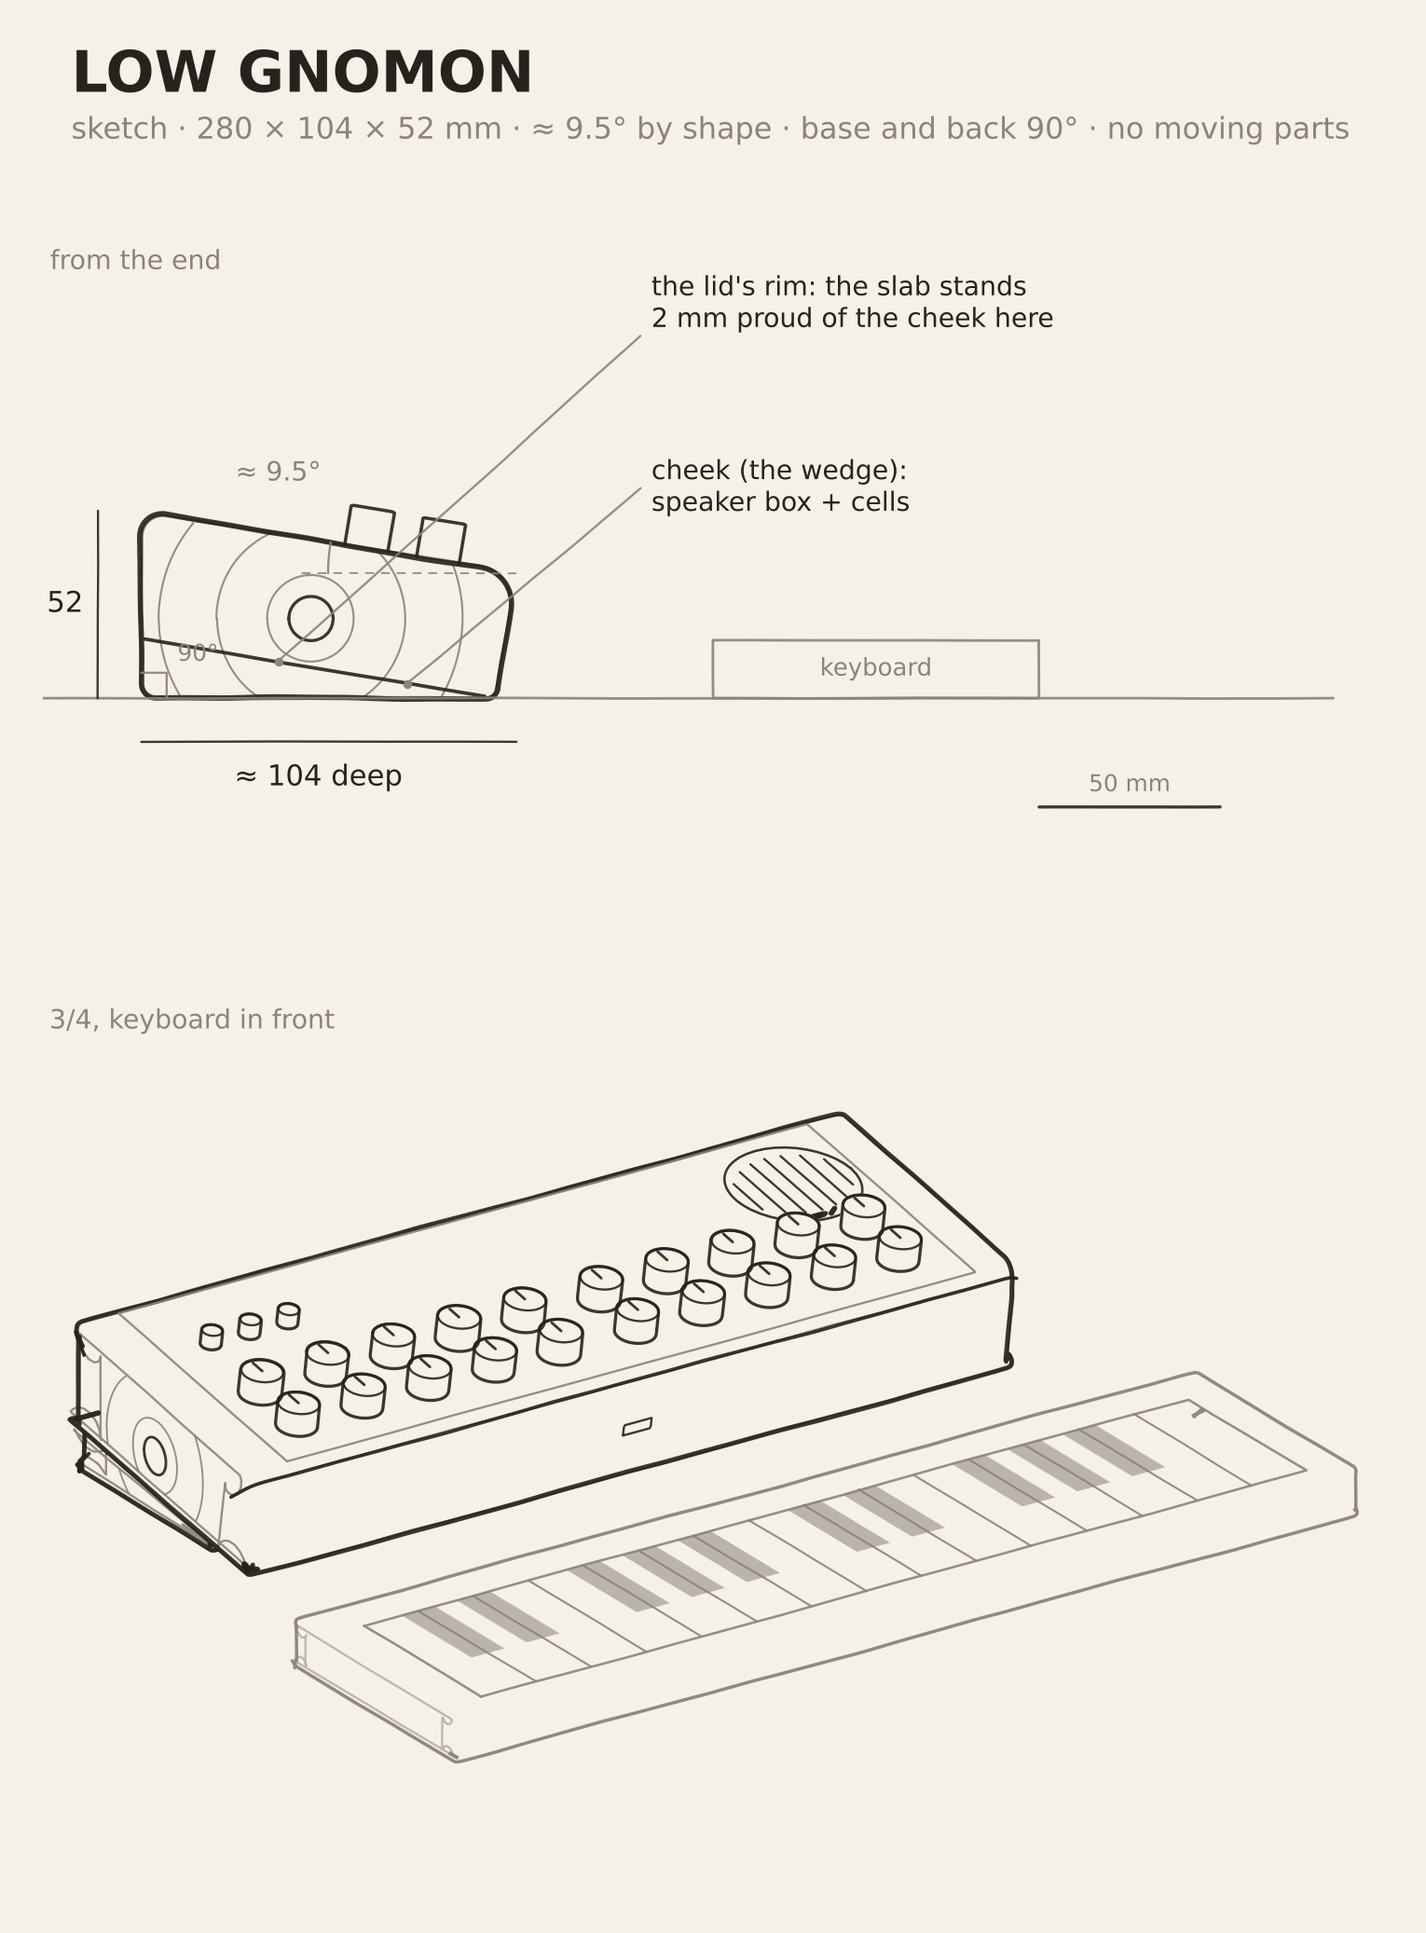
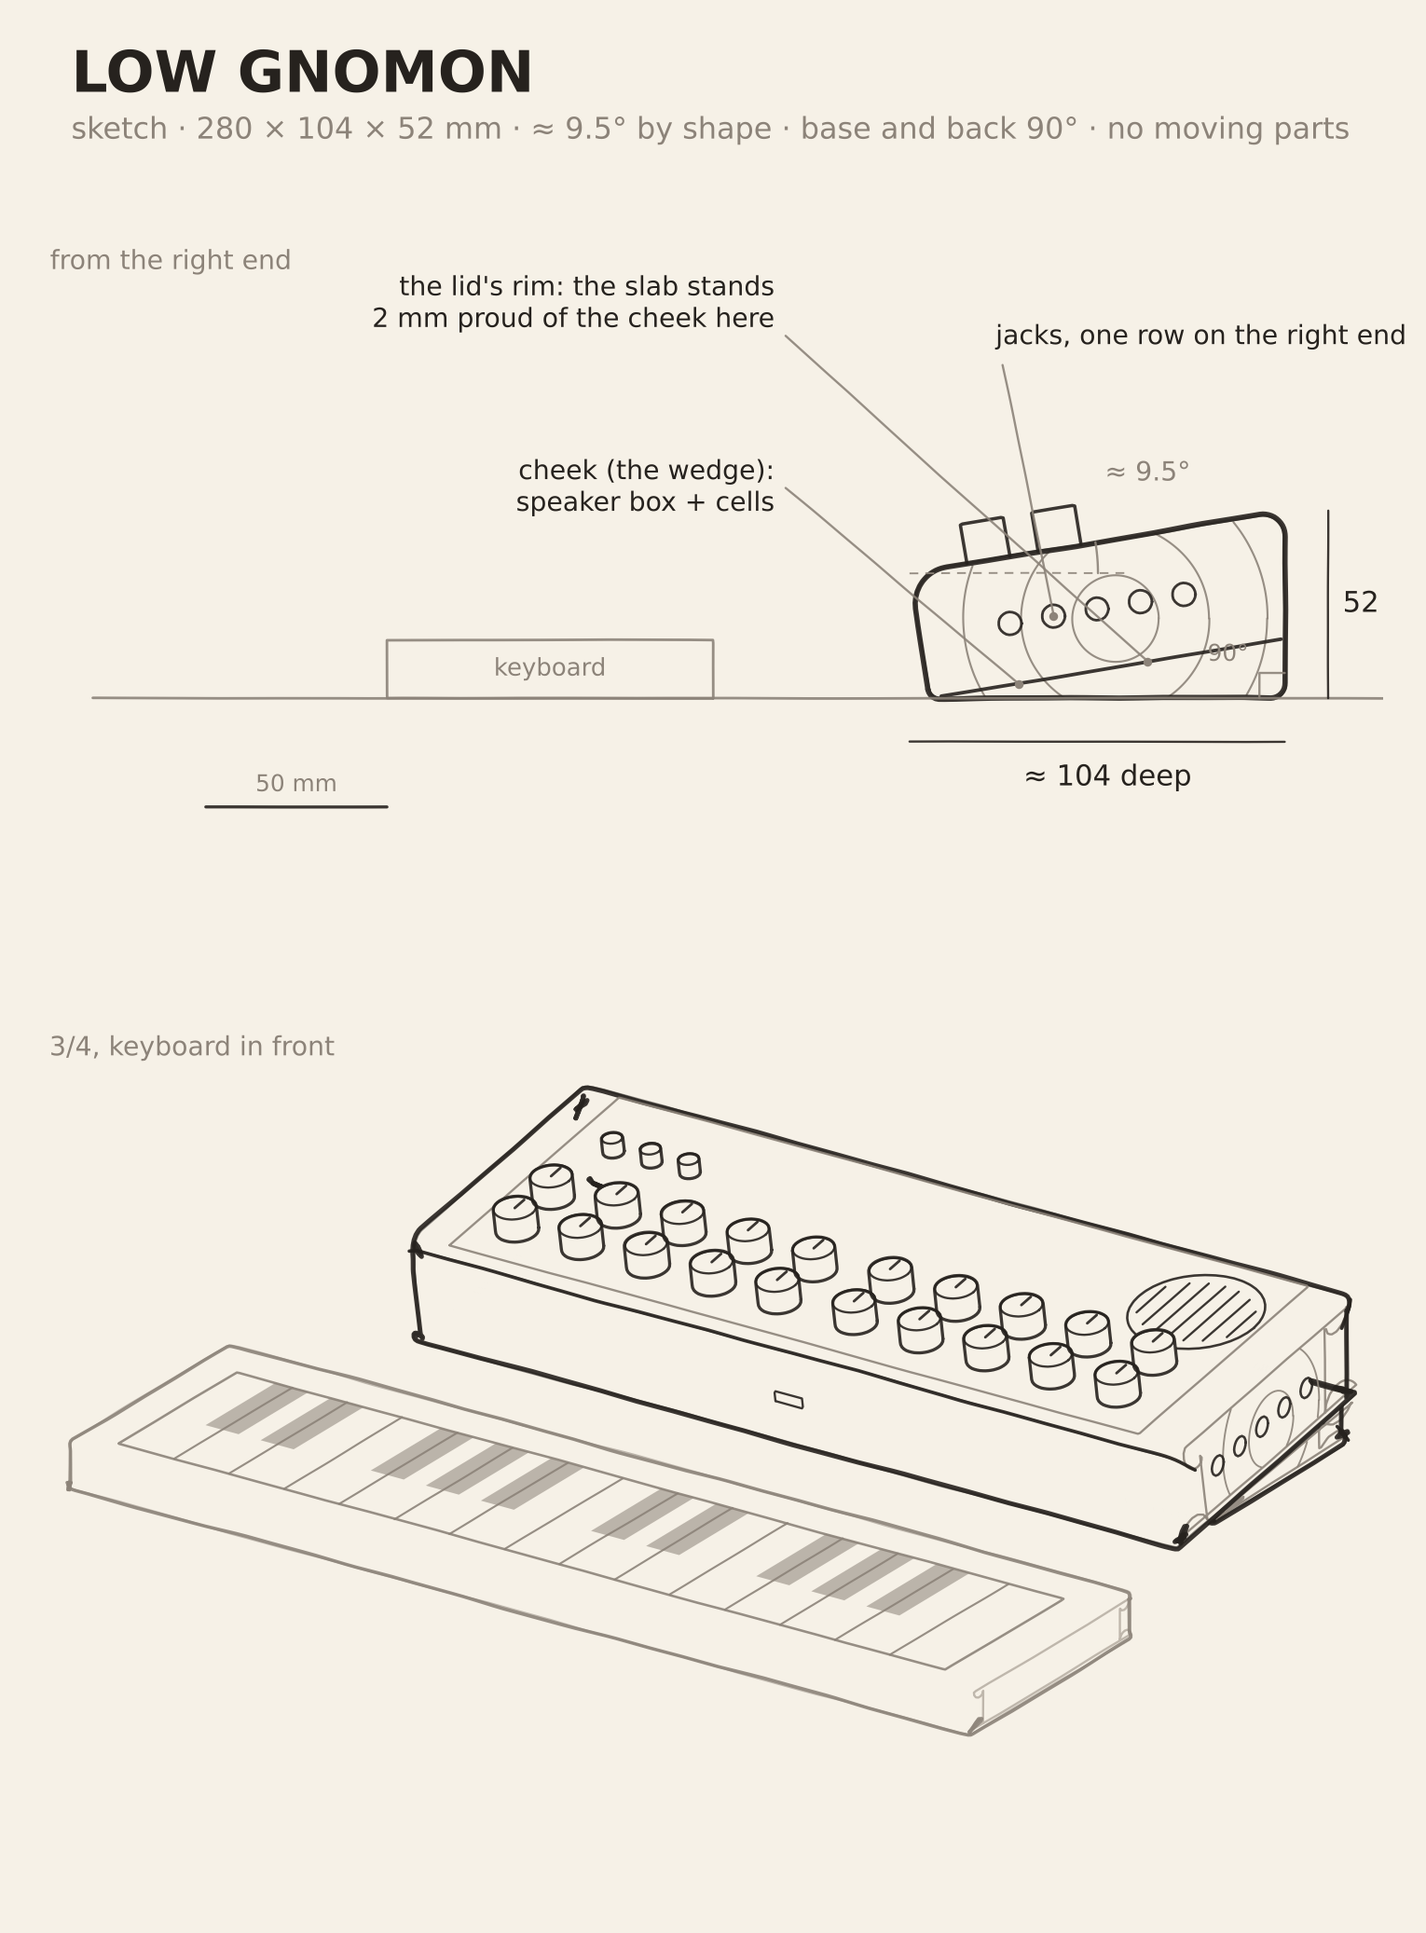
floss: EASEL rev 2.3 sketch; sketches sheet updated

diff --git a/floss/design/concepts/_src/r2_sketch.py b/floss/design/concepts/_src/r2_sketch.py
@@ -57,7 +57,11 @@ def wob(ax, xy, lw=2.0, color=INK, amp=0.45, closed=False, passes=2, alpha=0.9,
                 ls=(0, (5, 4)) if dashed else "-", zorder=z)
 
 
+FLIP = True   # end views seen from the RIGHT end (front on the left); 3/4 from front-right
+
+
 def label(ax, x, y, s, size=13, color=INK, ha="left", va="center", **kw):
+    if FLIP and ha in ("left", "right"): ha = "right" if ha == "left" else "left"
     ax.text(x, y, s, fontsize=size, color=color, ha=ha, va=va, zorder=10, **kw)
 
 
@@ -325,7 +329,7 @@ def rings_2d(center, sec, radii):
 # rev 2.1 (systems) + the director's top band: predella 36, both faces 60°,
 # plate (to the sharp apex) 58 + 17 = 75. Soft top r 6.
 EA_F = 36.0
-EA_PL = 75.0
+EA_PL = 58.0
 S60, C60 = math.sin(math.radians(60)), math.cos(math.radians(60))
 EA_H = EA_F + EA_PL*S60                       # sharp apex ≈ 101
 EA_AY = EA_PL*C60                             # apex y ≈ 37.5
@@ -478,8 +482,9 @@ def lg_end(ax, ox=0, oz=0, labels=True, kb=True):
     U = lambda p: np.column_stack([ox - p[:, 0], oz + p[:, 1]])
     for arc in rings_2d((51, 22), sec, [12, 26, 42]):
         wob(ax, U(arc), lw=0.9, color=SOFT, amp=0.2, passes=1, over=0)
-    port = plane_circle(np.array([51, 22, 0.0]), np.array([1, 0, 0]), np.array([0, 1, 0]), 6)[:, :2]
-    wob(ax, U(port), lw=1.4, closed=True, passes=1, amp=0.15)
+    for y, z in lg_jacks():
+        jc = plane_circle(np.array([y, z, 0.0]), np.array([1, 0, 0]), np.array([0, 1, 0]), 3.2, n=16)[:, :2]
+        wob(ax, U(jc), lw=1.2, closed=True, passes=1, amp=0.06)
     wob(ax, U(sec), lw=2.4, closed=True)
     # the hairline = the lid's rim step (slab 2 mm proud of the cheek)
     hl = np.array([(3, 0.5), (LG_B - 1, LG_HL)])
@@ -513,7 +518,18 @@ def lg_end(ax, ox=0, oz=0, labels=True, kb=True):
               size=12, va="bottom")
         leader(ax, (ox + 40, oz + 58), U(np.array([(LG_B*0.25, 4)]))[0])
         label(ax, ox + 43, oz + 58, "cheek (the wedge):\nspeaker box + cells", size=12)
+        leader(ax, (ox - 20, oz + 92), U(np.array([lg_jacks()[1]]))[0])
+        label(ax, ox - 18, oz + 96, "jacks, one row on the right end", size=12, va="bottom", ha="right")
     return LG_B
+
+
+def lg_jacks():
+    """Right end: one row of 5 (phones, line, MIDI in / out, device USB-C), about 18.5 below the plate."""
+    out = []
+    for y in (22, 34, 46, 58, 70):
+        zp = LG_P1[1] + (y - LG_P1[0])*math.tan(TH)
+        out.append((y, zp - 18.5))
+    return out
 
 
 def lg_meshes():
@@ -564,17 +580,117 @@ def lg_34(ax, cam, kb=True):
     wob(ax, cam.P(hp), lw=1.0, closed=True, passes=1, amp=0.08, z=5.6)
     # rings on the left end (slab cap and cheek cap), port mouth on the slab band
     for M in (Wd, S):
-        cap = M.R[0]
+        cap = M.R[-1]
         for arc in rings_2d((51, 22), cap[:, 1:], [12, 26]):
             P3 = np.column_stack([np.full(len(arc), cap[0, 0]), arc])
             wob(ax, cam.P(P3), lw=0.8, color=SOFT, amp=0.15, passes=1, over=0, z=5.6)
-    pm = plane_circle(np.array([0, 51, 22]), np.array([0, 1, 0]), np.array([0, 0, 1]), 6)
-    wob(ax, cam.P(pm), lw=1.2, closed=True, passes=1, amp=0.1, z=5.6)
+    for y, z in lg_jacks():
+        pm = plane_circle(np.array([W + 0.1, y, z]), np.array([0, 1, 0]), np.array([0, 0, 1]), 3.2, n=16)
+        wob(ax, cam.P(pm), lw=1.1, closed=True, passes=1, amp=0.06, z=5.7)
+    if kb: draw_keyboard(ax, cam, W/2 - 165, -60 - 90)
+
+
+
+# ---- EASEL rev 2.3: utilities on the right end face (owner: "Face or edge imo")
+EA_UTIL = [(22, 19, "t"), (34, 19, "k"), (46, 19, "t")]   # (y, z, toggle/knob) on the right end
+
+
+def easel_end(ax, ox=0, oz=0, labels=True, kb=True, ghost=False):
+    pts, d, h = easel_section()
+    sec, _ = rounded(pts, [3, 4, EA_TOP_R, 4], per=10)
+    U = lambda p: np.column_stack([ox - p[:, 0], oz + p[:, 1]])
+    for arc in rings_2d((34, 31), sec, [12, 24, 38]):
+        wob(ax, U(arc), lw=0.9, color=SOFT, amp=0.2, passes=1, over=0)
+    wob(ax, U(sec), lw=2.4, closed=True)
+    drv = np.array([(10, 6), (65, 6), (65, 30), (10, 30)])
+    wob(ax, U(drv), lw=1.1, color=RED, closed=True, passes=1, dashed=True, amp=0.15)
+    for zz in (8, 13, 18):
+        wob(ax, U(np.array([(4, zz), (-5, zz)])), lw=1.0, color=RED, passes=1, amp=0.1, over=0)
+    # the three utilities, seen face-on on this (right) end
+    for y, z, kind in EA_UTIL:
+        r = 3.5 if kind == "k" else 2.6
+        c = plane_circle(np.array([y, z, 0.0]), np.array([1, 0, 0]), np.array([0, 1, 0]), r, n=18)[:, :2]
+        wob(ax, U(c), lw=1.6, closed=True, passes=1, amp=0.05)
+        if kind == "t":
+            wob(ax, U(np.array([(y, z), (y, z + 4)])), lw=1.6, passes=1, amp=0.03, over=0)
+    o = np.array([0, EA_F]); ev = np.array([C60, S60]); en = np.array([-S60, C60])
+    for s_, hh, ww in [(14, 11, 12), (31, 11, 12)]:
+        b = o + ev*s_
+        q = np.array([b - ev*ww/2, b - ev*ww/2 + en*hh, b + ev*ww/2 + en*hh, b + ev*ww/2])
+        wob(ax, U(q), lw=1.5, passes=1, amp=0.12, over=0)
+    wob(ax, [(ox - d - 30, oz), (ox + 230, oz)], lw=1.2, color=SOFT, passes=1, amp=0.15)
+    if kb:
+        kq = np.array([(-60, 0), (-150, 0), (-150, 16), (-60, 16)])
+        wob(ax, U(kq), lw=1.2, color=SOFT, closed=True, passes=1, amp=0.15)
+        label(ax, ox + 105, oz + 8, "keyboard", size=11, color=SOFT, ha="center")
+    if labels:
+        aa = np.radians(np.linspace(0, 60, 16))
+        wob(ax, np.column_stack([ox - d + 16*np.cos(aa), oz + 16*np.sin(aa)]),
+            lw=1.0, color=SOFT, passes=1, amp=0.08, over=0)
+        leader(ax, (ox - d + 2, oz + 66), (ox - EA_AY - 30, oz + 52))
+        label(ax, ox - d, oz + 70, "both faces 60°", size=12, color=SOFT, ha="right")
+        wob(ax, [(ox - d, oz - 12), (ox, oz - 12)], lw=1.0, color=INK, passes=1, amp=0.1, over=0)
+        label(ax, ox - d/2, oz - 22, f"≈ {d:.0f} deep", ha="center", size=13)
+        label(ax, ox + 12, oz + EA_TOP, f"≈ {EA_TOP:.0f} tall", size=13, va="bottom")
+        wob(ax, [(ox - EA_AY, oz + EA_TOP), (ox + 10, oz + EA_TOP)], lw=0.8, color=SOFT, passes=1,
+            amp=0.1, over=0, dashed=True)
+        leader(ax, (ox + 58, oz + 64), U(np.array([o + ev*22 + en*11]))[0])
+        label(ax, ox + 61, oz + 64, "two rows of controls,\nlights on the face", size=12)
+        leader(ax, (ox + 30, oz + 34), (ox - 8, oz + 13))
+        label(ax, ox + 33, oz + 36, "one speaker, lying in the foot,\nfiring out slots in the front",
+              size=12, color=RED)
+        leader(ax, (ox - 62, oz + 99), U(np.array([(46, 22)]))[0])
+        label(ax, ox - 62, oz + 101, "power / TUNE / SPLIT on this end", size=12, ha="center", va="bottom")
+        # fallback inset: 10 mm face band, predella 28, plate 68 (84 x 81), at 0.45 scale
+        k = 0.45; ix, iz = ox + 205, oz + 62
+        bp = [(0, 0), (68*C60 + (28 + 68*S60)/math.tan(math.radians(60)), 0), (68*C60, 28 + 68*S60), (0, 28)]
+        bs, _ = rounded(bp, [3, 4, EA_TOP_R, 4], per=8)
+        Ui = lambda p: np.column_stack([ix - k*p[:, 0], iz + k*p[:, 1]])
+        wob(ax, Ui(bs), lw=1.1, color=SOFT, closed=True, passes=1, dashed=True, amp=0.1)
+        b = np.array([0, 28]) + np.array([C60, S60])*50
+        wob(ax, Ui(np.array([b, b + np.array([-S60, C60])*6])), lw=1.4, color=SOFT, passes=1, amp=0.05, over=0)
+        label(ax, ix - 20, iz - 9, "fallback: 10 mm face band\nfor them, 84 × 81", size=10.5,
+              color=SOFT, ha="center", va="top")
+    return d
+
+
+def easel_34(ax, cam, kb=True):
+    M, sec = easel_mesh()
+    draw_mesh(ax, cam, M)
+    o, eu, ev, en = easel_plate_frame()
+    s0, s1 = 4, EA_PL - 11
+    q = np.array([o + eu*14 + ev*s0, o + eu*(W-14) + ev*s0, o + eu*(W-14) + ev*s1, o + eu*14 + ev*s1])
+    wob(ax, cam.P(q), lw=1.0, color=SOFT, closed=True, passes=1, amp=0.2, z=5.6)
+    for i in range(8):
+        x = W/2 - 3.5*13 + i*13
+        sl = np.array([[x-3, -0.1, 4], [x+3, -0.1, 4], [x+3, -0.1, 14], [x, -0.1, 17], [x-3, -0.1, 14]])
+        wob(ax, cam.P(sl), lw=1.1, closed=True, passes=1, amp=0.1, z=5.6)
+    hp = np.array([[W/2-5, -0.1, 25], [W/2+5, -0.1, 25], [W/2+5, -0.1, 28.5], [W/2-5, -0.1, 28.5]])
+    wob(ax, cam.P(hp), lw=1.0, closed=True, passes=1, amp=0.08, z=5.6)
+    ks = []
+    for s_ in (14, 31):
+        for i in range(11):
+            x = 30 + i*22 + (6 if i > 5 else 0) - 3
+            ks.append((x, s_))
+    ks.sort(key=lambda t: -cam.depth(o + eu*t[0] + ev*t[1]))
+    for x, s_ in ks:
+        knob3d(ax, cam, o + eu*x + ev*s_, eu, ev, en, r=6.5, h=8)
+    for x in (W/2 - 24, W/2 - 8, W/2 + 8, W/2 + 24):
+        c = plane_circle(o + eu*x + ev*43, eu, ev, 1.8, n=12)
+        pc = cam.P(c); ax.fill(pc[:, 0], pc[:, 1], color=INK, zorder=6.5)
+    cap = M.R[-1]; xc = cap[0, 0]
+    for arc in rings_2d((34, 31), cap[:, 1:], [12, 24]):
+        P3 = np.column_stack([np.full(len(arc), xc), arc])
+        wob(ax, cam.P(P3), lw=0.8, color=SOFT, amp=0.15, passes=1, over=0, z=5.6)
+    ey = np.array([0, 1, 0]); ez = np.array([0, 0, 1]); ex = np.array([1, 0, 0])
+    for y, z, kind in EA_UTIL:
+        knob3d(ax, cam, np.array([xc, y, z]), ey, ez, ex, r=3.5 if kind == "k" else 2.6,
+               h=6 if kind == "k" else 4, tick=(kind == "k"))
     if kb: draw_keyboard(ax, cam, W/2 - 165, -60 - 90)
 
 
 # =============================================================== sheets
-CAM = Cam(34, 24)
+CAM = Cam(-34, 24)
 END_XL, END_XR, END_ZB, END_ZT = -125, 245, -36, 128      # mm, end-view frame (u, z)
 
 
@@ -591,8 +707,8 @@ def scene_bounds():
 B34 = None
 
 
-def setup(ax, xl, xr, zb, zt):
-    ax.set_xlim(xl, xr); ax.set_ylim(zb, zt); ax.set_aspect("equal"); ax.axis("off")
+def setup(ax, xl, xr, zb, zt, flip=False):
+    ax.set_xlim(xr, xl) if flip else ax.set_xlim(xl, xr); ax.set_ylim(zb, zt); ax.set_aspect("equal"); ax.axis("off")
 
 
 def single(name, end_fn, iso_fn, title, sub, path):
@@ -601,13 +717,13 @@ def single(name, end_fn, iso_fn, title, sub, path):
     fig = plt.figure(figsize=(9, 12.2), dpi=170, facecolor=PAPER)
     fig.text(0.05, 0.975, title, fontsize=26, weight="bold", color=INK, va="top")
     fig.text(0.05, 0.94, sub, fontsize=13.5, color=SOFT, va="top")
-    a1 = fig.add_axes([0.03, 0.53, 0.94, 0.39]); setup(a1, END_XL, END_XR, END_ZB, END_ZT)
+    a1 = fig.add_axes([0.03, 0.53, 0.94, 0.39]); setup(a1, END_XL, END_XR, END_ZB, END_ZT, flip=FLIP)
     a1.set_facecolor(PAPER)
     end_fn(a1)
-    label(a1, END_XL + 2, END_ZT - 4, "from the end", size=12, color=SOFT, va="top")
+    label(a1, END_XR - 2, END_ZT - 4, "from the right end", size=12, color=SOFT, va="top", ha="right")
     a2 = fig.add_axes([0.03, 0.03, 0.94, 0.50]); setup(a2, *B34)
     iso_fn(a2, CAM)
-    label(a2, B34[0] + 2, B34[3] - 4, "3/4, keyboard in front", size=12, color=SOFT, va="top")
+    a2.text(B34[0] + 2, B34[3] - 4, "3/4, keyboard in front", fontsize=12, color=SOFT, va="top", ha="left")
     # scale bar on the end view
     wob(a1, [(150, END_ZB + 6), (200, END_ZB + 6)], lw=1.4, passes=1, amp=0.05, over=0)
     label(a1, 175, END_ZB + 12, "50 mm", size=10.5, color=SOFT, ha="center")
@@ -623,15 +739,15 @@ def compare(path):
     fig.text(0.03, 0.937, "one ground line, the same keyboard, the same scale: only the shape changes",
              fontsize=14, color=SOFT, va="top")
     cols = [("EASEL", easel_end, easel_34,
-             "280 × 96 × 95 mm · 60° · narrow and upright, but the top band\n"
-             "makes it ≈ 96 deep (79 if power / TUNE / SPLIT go on the back)"),
+             "280 × 79 × 80 mm · 60° · narrow and upright, but the\n"
+             "utilities on the right end slide it at ≈ 5 N"),
             ("LOW GNOMON", lg_end, lg_34,
              "280 × 104 × 52 mm · ≈ 9.5° · the steadiest, zero parts,\n"
              "but no flat pose, and it reads close to SILL tilted")]
     for i, (nm, ef, isf, cap) in enumerate(cols):
         x0 = 0.02 + i*0.49
         fig.text(x0 + 0.01, 0.885, nm, fontsize=21, weight="bold", color=INK, va="top")
-        a1 = fig.add_axes([x0, 0.56, 0.47, 0.30]); setup(a1, END_XL, END_XR, -22, 108)
+        a1 = fig.add_axes([x0, 0.56, 0.47, 0.30]); setup(a1, END_XL, END_XR, -22, 108, flip=FLIP)
         ef(a1, labels=False)
         a2 = fig.add_axes([x0, 0.15, 0.47, 0.42]); setup(a2, *B34)
         isf(a2, CAM)
@@ -645,7 +761,7 @@ if __name__ == "__main__":
     import os
     here = os.path.dirname(os.path.abspath(__file__))
     single("easel", easel_end, easel_34, "EASEL",
-           f"sketch · 280 × {EA_D:.0f} × {EA_TOP:.0f} mm · both faces 60° · one piece, no moving parts",
+           f"sketch · 280 × {EA_D:.0f} × {EA_TOP:.0f} mm · both faces 60° · utilities on the right end",
            os.path.join(here, "..", "r2-easel", "sketch.png"))
     single("lowgnomon", lg_end, lg_34, "LOW GNOMON",
            "sketch · 280 × 104 × 52 mm · ≈ 9.5° by shape · base and back 90° · no moving parts",

diff --git a/floss/design/concepts/r2-easel/how-it-looks-and-feels.md b/floss/design/concepts/r2-easel/how-it-looks-and-feels.md
@@ -1,6 +1,30 @@
 # EASEL: how it looks and feels (visual, idea level)
 
-## Rev 2.1 sketch (2026-11-22, round 2, after the director's turn 7): this section supersedes everything below it
+## Rev 2.3 sketch (2026-11-22, round 2): this section supersedes everything below it
+
+**Owner, verbatim, on power / TUNE / MIDI SPLIT:** "Face or edge imo" (not the back). Systems' rev 2.3 picks the **right end face**.
+
+**Picture:** `sketch.png` (line sketch: end view **from the right end**, plus a 3/4 view from front-right with the keyboard in front), and the left column of `../r2-sketches.png`. **Source:** `../_src/r2_sketch.py` (`EA_PL = 58`; `FLIP` and `Cam(-34, 24)` show the right end).
+
+**Geometry drawn (systems rev 2.3):**
+- predella 36, both faces 60°, plate 58, soft top r 6;
+- **280 × 79 × 80** (86 to the sharp point).
+
+**Looks:**
+- **Face:** two rows of 11 knobs and four amber lights between the top row and the rim. Nothing else; the face is calm.
+- **Right end face:** a toggle, the TUNE knob (Ø 7) and a toggle, in one row ≈ 12 apart at z ≈ 14–24, on the flat between the plan corners. The end view shows them face-on. Growth rings stay on both ends; the port mouth is on the left end.
+- **One speaker:** the driver lies in the foot (dashed red on the end view) and fires out 8 lancet slots in the low front face, with the host USB-C above them.
+- **Fallback:** the 10 mm face band (84 × 81, predella 28) is a small dashed inset on the end view, not drawn full size.
+
+**Feel:** a small lectern, the narrowest stance of the round. The utilities are set-and-forget controls, reached from the side, like a radio's edge switches. Power state also shows on a face light.
+
+**The one trade-off (the sheet's caption):** a sideways flick of an end toggle slides it at ≈ 5 N on TPU (systems), so you steady the far end with the other hand.
+
+**Open:** labels for the end controls are read from the side (they're legible, but not from the seat). Which toggle is which is the director's call.
+
+---
+
+## Superseded: rev 2.1 sketch (top band, 96 × 95)
 
 **Picture:** `sketch.png` (loose line sketch: end view + one 3/4 with the keyboard in front), and the left column of `../r2-sketches.png` (same scale as LOW GNOMON). **Source:** `../_src/r2_sketch.py`. The owner's rule (21:08): "Do you have the ability to have them draw sketches somehow instead of these complex renders every time?"
 

diff --git a/floss/design/concepts/r2-lowgnomon/how-it-looks-and-feels.md b/floss/design/concepts/r2-lowgnomon/how-it-looks-and-feels.md
@@ -2,7 +2,7 @@
 
 2026-11-22, round 2. PROPOSAL. Read with systems' `how-it-works.md` rev 1, which owns the geometry.
 
-**Picture:** `sketch.png` (loose line sketch: end view + one 3/4 with the keyboard in front), and the right column of `../r2-sketches.png` (same scale as EASEL). **Source:** `../_src/r2_sketch.py`.
+**Picture:** `sketch.png` (loose line sketch: end view + one 3/4 with the keyboard in front), and the right column of `../r2-sketches.png` (same scale as EASEL). **Source:** `../_src/r2_sketch.py`. Both views now show the **right end** (to match EASEL's utilities end): the end view shows the jack row (5, ≈ 18.5 below the plate) instead of the port mouth, which stays on the left end.
 
 **Owner, verbatim:** "So one arrangement that can either be flat or slightly angled is the best multiple arrangements it can be"; "I do wish it was more distinctive refardless"; "Make the base and the back 90 degrees when sitting flat"; "Drop to one speaker"; "Do you have the ability to have them draw sketches somehow instead of these complex renders every time?"
 

diff --git a/floss/design/notes/visual.md b/floss/design/notes/visual.md
@@ -611,3 +611,4 @@ Rev 4 was a sharp extrusion.
 **Open:** systems confirm EASEL's section with the band, plus the tip force for a utility press; director: does LOW GNOMON still go to the owner, or does SILL take the slight-angle seat; owner: band vs back for the utilities, and replace or join.
 
 **Next:** systems checks EASEL's grown section; then the director scores both sketches.
+- **Same night, EASEL rev 2.3** (owner, verbatim: "Face or edge imo"; systems picked the right end face). `r2-easel/sketch.png` redrawn at **280 × 79 × 80**: toggle, TUNE and toggle on the right end at z ≈ 14–24 (shown face-on in the end view and in the 3/4), lights on the face, the 10 mm face band (84 × 81) as a small dashed inset. All end views now look from the **right end** and the 3/4 views from the front-right (`FLIP`, `Cam(-34, 24)` in `r2_sketch.py`), so LOW GNOMON's sketch shows its jack row. `r2-sketches.png` caption: EASEL's trade-off is now "utilities on the right end slide it at ≈ 5 N". Mds updated. Every PNG opened.
